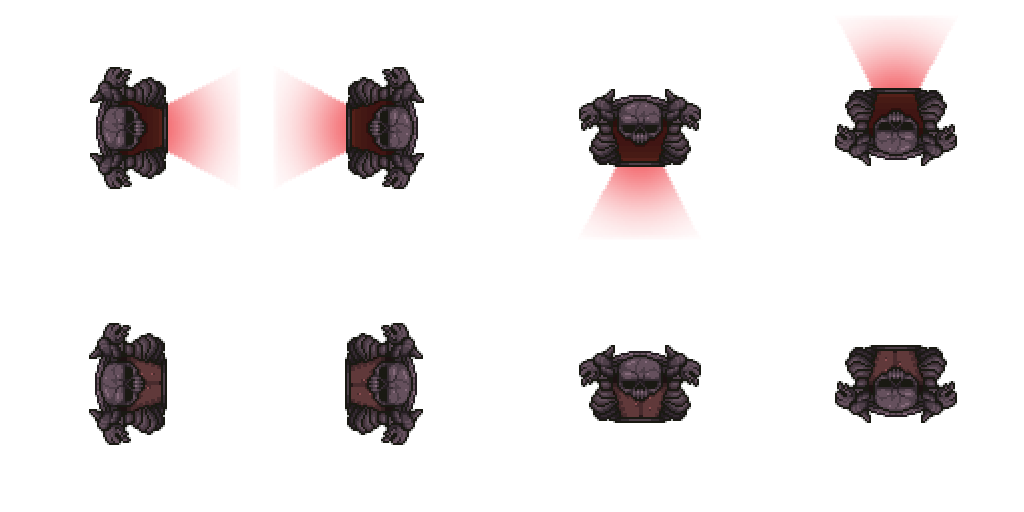
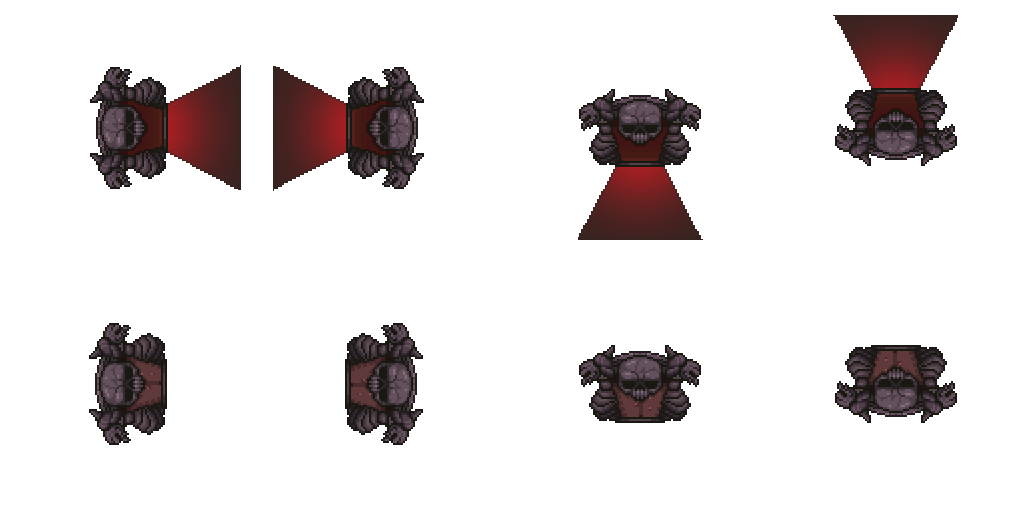
김창수 : 업데이트

Changed region(s): [[0.1562, 0.125, 0.3438, 0.375], [0.8125, 0.0312, 0.9375, 0.1875], [0.5625, 0.3125, 0.6875, 0.4688]]

diff --git a/ContentsProject/Door.cpp b/ContentsProject/Door.cpp
@@ -10,7 +10,7 @@ ADoor::ADoor()
 	
 	DoorRenderer = CreateDefaultSubObject<USpriteRenderer>();
 	DoorRenderer->SetOrder(ERenderOrder::DOOR);
-	DoorRenderer->SetSprite("NormalRoomDoor.png");
+	DoorRenderer->SetSprite("BossRoomDoor.png");
 	DoorRenderer->SetSpriteScale(1.0f);
 
 
@@ -34,19 +34,19 @@ void ADoor::DoorOpen()
 	case DoorDir::NONE:
 		break;
 	case DoorDir::UP:
-		DoorRenderer->CreateAnimation("UpNormalRoomDoor_Open", "NormalRoomDoor.png", 2, 2, 0.1f);
+		DoorRenderer->CreateAnimation("UpNormalRoomDoor_Open", "BossRoomDoor.png", 2, 2, 0.1f);
 		DoorRenderer->ChangeAnimation("UpNormalRoomDoor_Open");
 		break;
 	case DoorDir::RIGHT:
-		DoorRenderer->CreateAnimation("RightNormalRoomDoor_Open", "NormalRoomDoor.png", 1, 1, 0.1f);
+		DoorRenderer->CreateAnimation("RightNormalRoomDoor_Open", "BossRoomDoor.png", 1, 1, 0.1f);
 		DoorRenderer->ChangeAnimation("RightNormalRoomDoor_Open");
 		break;
 	case DoorDir::DOWN:
-		DoorRenderer->CreateAnimation("DownNormalRoomDoor_Open", "NormalRoomDoor.png", 3, 3, 0.1f);
+		DoorRenderer->CreateAnimation("DownNormalRoomDoor_Open", "BossRoomDoor.png", 3, 3, 0.1f);
 		DoorRenderer->ChangeAnimation("DownNormalRoomDoor_Open");
 		break;
 	case DoorDir::LEFT:
-		DoorRenderer->CreateAnimation("LeftNormalRoomDoor_Open", "NormalRoomDoor.png", 0, 0, 0.1f);
+		DoorRenderer->CreateAnimation("LeftNormalRoomDoor_Open", "BossRoomDoor.png", 0, 0, 0.1f);
 		DoorRenderer->ChangeAnimation("LeftNormalRoomDoor_Open");
 		break;
 	default:
@@ -62,19 +62,19 @@ void ADoor::DoorClose()
 	case DoorDir::NONE:
 		break;
 	case DoorDir::UP:
-		DoorRenderer->CreateAnimation("UpNormalRoomDoor_Close", "NormalRoomDoor.png", 6, 6, 0.1f);
+		DoorRenderer->CreateAnimation("UpNormalRoomDoor_Close", "BossRoomDoor.png", 6, 6, 0.1f);
 		DoorRenderer->ChangeAnimation("UpNormalRoomDoor_Close");
 		break;
 	case DoorDir::RIGHT:
-		DoorRenderer->CreateAnimation("RightNormalRoomDoor_Close", "NormalRoomDoor.png", 5, 5, 0.1f);
+		DoorRenderer->CreateAnimation("RightNormalRoomDoor_Close", "BossRoomDoor.png", 5, 5, 0.1f);
 		DoorRenderer->ChangeAnimation("RightNormalRoomDoor_Close");
 		break;
 	case DoorDir::DOWN:
-		DoorRenderer->CreateAnimation("DownNormalRoomDoor_Close", "NormalRoomDoor.png", 7, 7, 0.1f);
+		DoorRenderer->CreateAnimation("DownNormalRoomDoor_Close", "BossRoomDoor.png", 7, 7, 0.1f);
 		DoorRenderer->ChangeAnimation("DownNormalRoomDoor_Close");
 		break;
 	case DoorDir::LEFT:
-		DoorRenderer->CreateAnimation("LeftNormalRoomDoor_Close", "NormalRoomDoor.png", 4, 4, 0.1f);
+		DoorRenderer->CreateAnimation("LeftNormalRoomDoor_Close", "BossRoomDoor.png", 4, 4, 0.1f);
 		DoorRenderer->ChangeAnimation("LeftNormalRoomDoor_Close");
 		break;
 	default:
